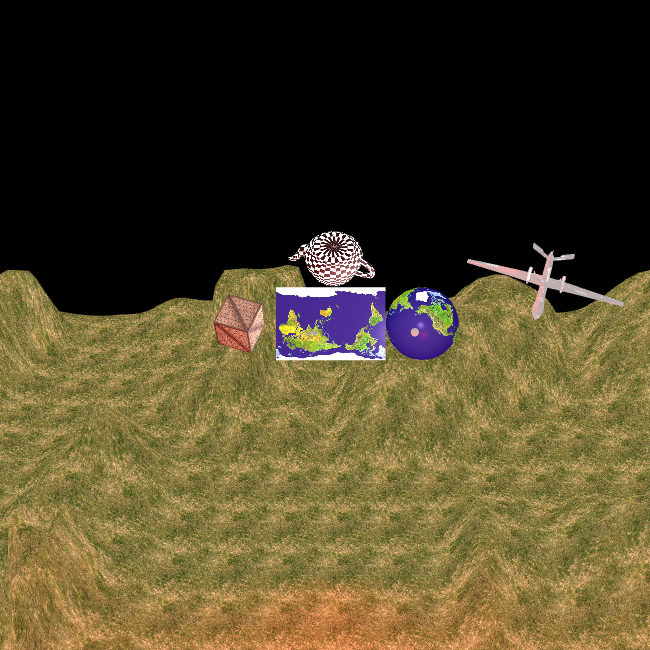
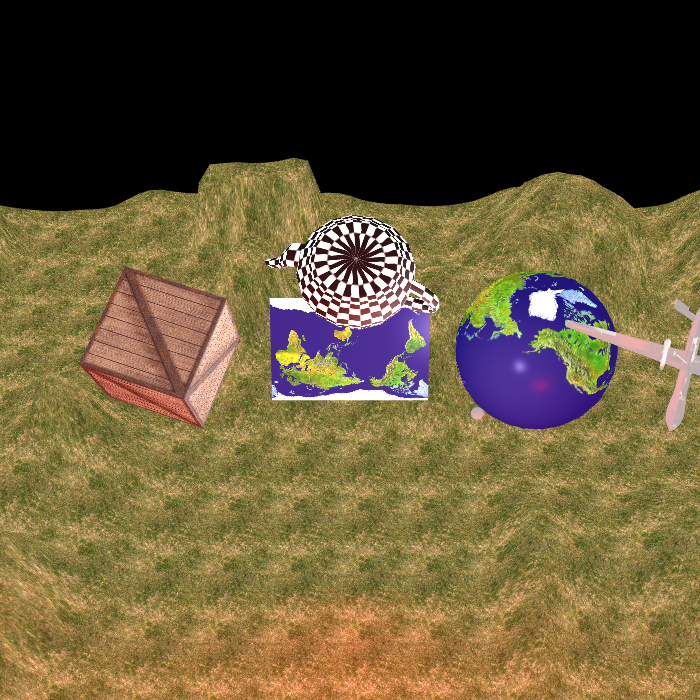
'修改示例代码'

diff --git a/examples/main.js b/examples/main.js
@@ -15,18 +15,18 @@ function Main(){
         //new MyGL.AssetData('cube_mat_vshader', MyGL.AssetData.TEXT, './src/shaders/cube_material/base/vert.glsl'),
         //new MyGL.AssetData('cube_mat_fshader', MyGL.AssetData.TEXT, './src/shaders/cube_material/base/frag.glsl'),
         /*new AssetData('sky_n_x', AssetData.IMAGE, './resource/sky_n_x.jpg'),
-         new AssetData('sky_n_y', AssetData.IMAGE, './resource/sky_n_y.jpg'),
-         new AssetData('sky_n_z', AssetData.IMAGE, './resource/sky_n_z.jpg'),
-         new AssetData('sky_p_x', AssetData.IMAGE, './resource/sky_p_x.jpg'),
-         new AssetData('sky_p_y', AssetData.IMAGE, './resource/sky_p_y.jpg'),
-         new AssetData('sky_p_z', AssetData.IMAGE, './resource/sky_p_z.jpg'),*/
+        new AssetData('sky_n_y', AssetData.IMAGE, './resource/sky_n_y.jpg'),
+        new AssetData('sky_n_z', AssetData.IMAGE, './resource/sky_n_z.jpg'),
+        new AssetData('sky_p_x', AssetData.IMAGE, './resource/sky_p_x.jpg'),
+        new AssetData('sky_p_y', AssetData.IMAGE, './resource/sky_p_y.jpg'),
+        new AssetData('sky_p_z', AssetData.IMAGE, './resource/sky_p_z.jpg'),*/
 
-         new MyGL.AssetData('cloudy_noon_nx', MyGL.AssetData.IMAGE, './resource/cloudy_noon_nx.jpg'),
-         new MyGL.AssetData('cloudy_noon_ny', MyGL.AssetData.IMAGE, './resource/cloudy_noon_ny.jpg'),
-         new MyGL.AssetData('cloudy_noon_nz', MyGL.AssetData.IMAGE, './resource/cloudy_noon_nz.jpg'),
-         new MyGL.AssetData('cloudy_noon_px', MyGL.AssetData.IMAGE, './resource/cloudy_noon_px.jpg'),
-         new MyGL.AssetData('cloudy_noon_py', MyGL.AssetData.IMAGE, './resource/cloudy_noon_py.jpg'),
-         new MyGL.AssetData('cloudy_noon_pz', MyGL.AssetData.IMAGE, './resource/cloudy_noon_pz.jpg'),
+        new MyGL.AssetData('cloudy_noon_nx', MyGL.AssetData.IMAGE, './resource/cloudy_noon_nx.jpg'),
+        new MyGL.AssetData('cloudy_noon_ny', MyGL.AssetData.IMAGE, './resource/cloudy_noon_ny.jpg'),
+        new MyGL.AssetData('cloudy_noon_nz', MyGL.AssetData.IMAGE, './resource/cloudy_noon_nz.jpg'),
+        new MyGL.AssetData('cloudy_noon_px', MyGL.AssetData.IMAGE, './resource/cloudy_noon_px.jpg'),
+        new MyGL.AssetData('cloudy_noon_py', MyGL.AssetData.IMAGE, './resource/cloudy_noon_py.jpg'),
+        new MyGL.AssetData('cloudy_noon_pz', MyGL.AssetData.IMAGE, './resource/cloudy_noon_pz.jpg'),
 
         new MyGL.AssetData('land', MyGL.AssetData.IMAGE, './resource/land.png'),
         new MyGL.AssetData('grass', MyGL.AssetData.IMAGE, './resource/grass.png'),
@@ -38,10 +38,6 @@ function Main(){
     MyGL.AssetsManager.getInstance().load();
 }
 
-Main.prototype.start = function(){
-
-};
-
 Main.prototype.loadComplete = function(event){
     console.log(event);
     this.engine = new MyGL.Engine(true);
@@ -51,8 +47,9 @@ Main.prototype.loadComplete = function(event){
     //this.scene.ambientColor = new Vector3(0, 0,0);
     //this.scene.initialize();
 
+    //透视摄影机
     this.camera = new MyGL.PerspectiveCamera();
-    this.camera.position = new MyGL.Vector3(0.0, 25, 35.0);
+    this.camera.position = new MyGL.Vector3(0.0, 25, 20.0);
     this.scene.currentCamera = this.camera;
     this.camera.lookAt(new MyGL.Vector3(0.0, 0.0, 0.0), MyGL.Vector3.UP);
     MyGL.MouseCameraHelper.attach(this.camera);
@@ -60,8 +57,9 @@ Main.prototype.loadComplete = function(event){
     var cubeMat = new MyGL.StandardMaterial();
     cubeMat.texture = new MyGL.Texture2D(MyGL.AssetsManager.getInstance().getAsset('img_crate'), true);
 
-    this.cube = new MyGL.Mesh(new MyGL.Cube(2.0, 2, 2), cubeMat);
-    this.cube.position = new MyGL.Vector3(-5, 0.0, 0.0);
+    //立方体
+    this.cube = new MyGL.Mesh(new MyGL.Cube(4, 4, 4), cubeMat);
+    this.cube.position = new MyGL.Vector3(-7, 0.0, 0.0);
     this.scene.addMesh(this.cube);
 
     var colorMaterial = new MyGL.StandardMaterial();
@@ -71,22 +69,26 @@ Main.prototype.loadComplete = function(event){
     colorMaterial.shininess = 50;
     colorMaterial.texture = new MyGL.Texture2D(MyGL.AssetsManager.getInstance().getAsset('img_earth'), true);
 
-    this.sphere = new MyGL.Mesh(new MyGL.Sphere(2, 16, 12),colorMaterial);
-    this.sphere.position = new MyGL.Vector3(5, 0.0, 0.0);
+    //地球
+    this.sphere = new MyGL.Mesh(new MyGL.Sphere(3, 24, 24),colorMaterial);
+    this.sphere.position = new MyGL.Vector3(7, 0.0, 0.0);
     //this.cube.addChild(this.cube2);
     this.scene.addMesh(this.sphere);
 
+    //平面
     this.plane = new MyGL.Mesh(new MyGL.Plane(6, 4),colorMaterial);
     this.plane.position = new MyGL.Vector3(0, 0, 0);
     this.plane.rotation.x = 0.6;
     this.scene.addMesh(this.plane);
     this.plane.surfaceSide = MyGL.Mesh.SURFACE_SIDE_DOUBLE;
 
+    //平行光源
     this.directionLight = new MyGL.DirectionLight();
     this.directionLight.color = new MyGL.Vector3(0.4, 0.0, 0.0);
     this.directionLight.position = new MyGL.Vector3(0, 0, 1);
     this.scene.addLight(this.directionLight);
 
+    //点光源
     this.pointLight = new MyGL.PointLight();
     this.scene.addLight(this.pointLight);
     this.pointLight.color = new MyGL.Vector3(0.6, 0.6, 0.6);
@@ -102,15 +104,17 @@ Main.prototype.loadComplete = function(event){
     this.pointSphere.position.z = 5;
     this.scene.addMesh(this.pointSphere);
 
+    //茶壶
     var teapot = new MyGL.Teapot();
     var sm = new MyGL.StandardMaterial();
     sm.emissiveColor = new MyGL.Vector3(0.2, 0.2, 0.0);
     sm.texture = new MyGL.Texture2D();
     this.teapot = new MyGL.Mesh(teapot, sm);
     this.teapot.position.y = 4;
-    this.teapot.scale = new MyGL.Vector3(0.15, 0.15, 0.15);
+    this.teapot.scale = new MyGL.Vector3(0.2, 0.2, 0.2);
     this.scene.addMesh(this.teapot);
 
+    //立方体盒子
     var cubeMate = new MyGL.CubeMapMaterial();
     var cubeTexture = new MyGL.TextureCube([
         MyGL.AssetsManager.getInstance().getAsset('cloudy_noon_px'),
@@ -135,6 +139,7 @@ Main.prototype.loadComplete = function(event){
     var droneMat = new MyGL.StandardMaterial();
     droneMat.emissiveColor = new MyGL.Vector3(0.6, 0.6, 0.6);
     //droneMat.texture = new Texture2D(AssetsManager.getInstance().getAsset('drone_diffuse'));
+    //加载Obj格式无人机模型
     var objparser = new MyGL.ObjParser(MyGL.AssetsManager.getInstance().getAsset('drone'));
     this.drone = new MyGL.Mesh(new MyGL.ObjGeometry(objparser), droneMat);
     this.drone.position = new MyGL.Vector3(-10, 8, 3);

diff --git a/src/core/Scene3D.ts b/src/core/Scene3D.ts
@@ -3,8 +3,6 @@ import Camera from "../cameras/Camera";
 import RenderContext from "../RenderContext";
 import Vector3 from "../math/Vector3";
 import Mesh from "./Mesh";
-import PointLight from "../lights/PointLight";
-import DirectionLight from "../lights/DirectionLight";
 /**
  * Created by yaozh on 2017/6/6.
  */

diff --git a/src/MyGL.ts b/src/MyGL.ts
@@ -1,3 +1,4 @@
+/// <reference path="../typings/index.d.ts" />
 /**
  * Created by yaozh on 2017/12/18.
  */

diff --git a/README.md b/README.md
@@ -18,7 +18,190 @@ npm install
 gulp
 
 #case screenshot
-下图演示了场景中模型变换，平行光和点光源,高度地形图，Obj文件解析，在线浏览：
-<http://works.yaozhiguo.site/mygl/>
+下图演示了场景中模型变换，平行光和点光源,高度地形图，Obj文件解析等特性
 
 ![快照](https://github.com/yaozhiguo2016/MyGL-JS/blob/master/screenshot.png)
+
+#example
+
+<pre><code>
+function Main(){
+
+    MyGL.AssetsManager.getInstance().addGroup([
+        //new MyGL.AssetData('standard_mat_bp_vshader', MyGL.AssetData.TEXT, './src/shaders/standard_material/phong-f/vert.glsl'),
+        //new MyGL.AssetData('standard_mat_bp_fshader', MyGL.AssetData.TEXT, './src/shaders/standard_material/phong-f/frag.glsl'),
+        //new MyGL.AssetData('standard_mat_bp_vshader_nt', MyGL.AssetData.TEXT, './src/shaders/standard_material/phong-f/vert_no_texture.glsl'),
+        //new MyGL.AssetData('standard_mat_bp_fshader_nt', MyGL.AssetData.TEXT, './src/shaders/standard_material/phong-f/frag_no_texture.glsl'),
+        new MyGL.AssetData('img_earth', MyGL.AssetData.IMAGE, './resource/earth.bmp'),
+        new MyGL.AssetData('img_earth01', MyGL.AssetData.IMAGE, './resource/earth01.jpg'),
+        new MyGL.AssetData('img_crate', MyGL.AssetData.IMAGE, './resource/crate.gif'),
+
+        //new MyGL.AssetData('cube_mat_vshader', MyGL.AssetData.TEXT, './src/shaders/cube_material/base/vert.glsl'),
+        //new MyGL.AssetData('cube_mat_fshader', MyGL.AssetData.TEXT, './src/shaders/cube_material/base/frag.glsl'),
+        /*new AssetData('sky_n_x', AssetData.IMAGE, './resource/sky_n_x.jpg'),
+        new AssetData('sky_n_y', AssetData.IMAGE, './resource/sky_n_y.jpg'),
+        new AssetData('sky_n_z', AssetData.IMAGE, './resource/sky_n_z.jpg'),
+        new AssetData('sky_p_x', AssetData.IMAGE, './resource/sky_p_x.jpg'),
+        new AssetData('sky_p_y', AssetData.IMAGE, './resource/sky_p_y.jpg'),
+        new AssetData('sky_p_z', AssetData.IMAGE, './resource/sky_p_z.jpg'),*/
+
+        new MyGL.AssetData('cloudy_noon_nx', MyGL.AssetData.IMAGE, './resource/cloudy_noon_nx.jpg'),
+        new MyGL.AssetData('cloudy_noon_ny', MyGL.AssetData.IMAGE, './resource/cloudy_noon_ny.jpg'),
+        new MyGL.AssetData('cloudy_noon_nz', MyGL.AssetData.IMAGE, './resource/cloudy_noon_nz.jpg'),
+        new MyGL.AssetData('cloudy_noon_px', MyGL.AssetData.IMAGE, './resource/cloudy_noon_px.jpg'),
+        new MyGL.AssetData('cloudy_noon_py', MyGL.AssetData.IMAGE, './resource/cloudy_noon_py.jpg'),
+        new MyGL.AssetData('cloudy_noon_pz', MyGL.AssetData.IMAGE, './resource/cloudy_noon_pz.jpg'),
+
+        new MyGL.AssetData('land', MyGL.AssetData.IMAGE, './resource/land.png'),
+        new MyGL.AssetData('grass', MyGL.AssetData.IMAGE, './resource/grass.png'),
+
+        new MyGL.AssetData('drone', MyGL.AssetData.TEXT, './resource/drone.obj')
+        //new AssetData('drone_diffuse', AssetData.IMAGE, './resource/drone_diffuse_01.png')
+    ]);
+    MyGL.AssetsManager.getInstance().addEventListener(MyGL.AssetsManager.GROUP_LOAD_COMPLETE, this.loadComplete, this);
+    MyGL.AssetsManager.getInstance().load();
+}
+
+Main.prototype.loadComplete = function(event){
+    console.log(event);
+    this.engine = new MyGL.Engine(true);
+    this.engine.setRenderLoop(this.loop, this);
+
+    this.scene = new MyGL.Scene3D();
+    //this.scene.ambientColor = new Vector3(0, 0,0);
+    //this.scene.initialize();
+
+    //透视摄影机
+    this.camera = new MyGL.PerspectiveCamera();
+    this.camera.position = new MyGL.Vector3(0.0, 25, 20.0);
+    this.scene.currentCamera = this.camera;
+    this.camera.lookAt(new MyGL.Vector3(0.0, 0.0, 0.0), MyGL.Vector3.UP);
+    MyGL.MouseCameraHelper.attach(this.camera);
+
+    var cubeMat = new MyGL.StandardMaterial();
+    cubeMat.texture = new MyGL.Texture2D(MyGL.AssetsManager.getInstance().getAsset('img_crate'), true);
+
+    //立方体
+    this.cube = new MyGL.Mesh(new MyGL.Cube(4, 4, 4), cubeMat);
+    this.cube.position = new MyGL.Vector3(-7, 0.0, 0.0);
+    this.scene.addMesh(this.cube);
+
+    var colorMaterial = new MyGL.StandardMaterial();
+    colorMaterial.emissiveColor = new MyGL.Vector3(0.2, 0.2, 0.2);
+    colorMaterial.diffuseColor = new MyGL.Vector3(0.2, 0.2, 0.2);
+    colorMaterial.specularColor = new MyGL.Vector3(0.5, 0.5, 0.5);
+    colorMaterial.shininess = 50;
+    colorMaterial.texture = new MyGL.Texture2D(MyGL.AssetsManager.getInstance().getAsset('img_earth'), true);
+
+    //地球
+    this.sphere = new MyGL.Mesh(new MyGL.Sphere(3, 24, 24),colorMaterial);
+    this.sphere.position = new MyGL.Vector3(7, 0.0, 0.0);
+    //this.cube.addChild(this.cube2);
+    this.scene.addMesh(this.sphere);
+
+    //平面
+    this.plane = new MyGL.Mesh(new MyGL.Plane(6, 4),colorMaterial);
+    this.plane.position = new MyGL.Vector3(0, 0, 0);
+    this.plane.rotation.x = 0.6;
+    this.scene.addMesh(this.plane);
+    this.plane.surfaceSide = MyGL.Mesh.SURFACE_SIDE_DOUBLE;
+
+    //平行光源
+    this.directionLight = new MyGL.DirectionLight();
+    this.directionLight.color = new MyGL.Vector3(0.4, 0.0, 0.0);
+    this.directionLight.position = new MyGL.Vector3(0, 0, 1);
+    this.scene.addLight(this.directionLight);
+
+    //点光源
+    this.pointLight = new MyGL.PointLight();
+    this.scene.addLight(this.pointLight);
+    this.pointLight.color = new MyGL.Vector3(0.6, 0.6, 0.6);
+    this.pointLight.intensity = new MyGL.Vector3(1.0, 1.0, 1.0);
+    this.pointLight.position.x = 5;
+    this.pointLight.position.z = 5;
+
+    var sm2 = new MyGL.StandardMaterial();
+    sm2.emissiveColor = new MyGL.Vector3(0.6, 0.6, 0.6);
+    //sm2.texture = new Texture2D();
+    this.pointSphere = new MyGL.Mesh(new MyGL.Sphere(0.2, 16, 12), sm2);
+    this.pointSphere.position.x = 5;
+    this.pointSphere.position.z = 5;
+    this.scene.addMesh(this.pointSphere);
+
+    //茶壶
+    var teapot = new MyGL.Teapot();
+    var sm = new MyGL.StandardMaterial();
+    sm.emissiveColor = new MyGL.Vector3(0.2, 0.2, 0.0);
+    sm.texture = new MyGL.Texture2D();
+    this.teapot = new MyGL.Mesh(teapot, sm);
+    this.teapot.position.y = 4;
+    this.teapot.scale = new MyGL.Vector3(0.2, 0.2, 0.2);
+    this.scene.addMesh(this.teapot);
+
+    //立方体盒子
+    var cubeMate = new MyGL.CubeMapMaterial();
+    var cubeTexture = new MyGL.TextureCube([
+        MyGL.AssetsManager.getInstance().getAsset('cloudy_noon_px'),
+        MyGL.AssetsManager.getInstance().getAsset('cloudy_noon_nx'),
+        MyGL.AssetsManager.getInstance().getAsset('cloudy_noon_py'),
+        MyGL.AssetsManager.getInstance().getAsset('cloudy_noon_ny'),
+        MyGL.AssetsManager.getInstance().getAsset('cloudy_noon_pz'),
+        MyGL.AssetsManager.getInstance().getAsset('cloudy_noon_nz')
+    ]);
+    cubeMate.textureCube = cubeTexture;
+    var skyBox = new MyGL.SkyBox(80, cubeMate);
+    skyBox.position = this.camera.position;
+    //this.scene.addMesh(skyBox);
+
+    var img = MyGL.AssetsManager.getInstance().getAsset('land');
+    var terrainMat = new MyGL.StandardMaterial();
+    terrainMat.texture = new MyGL.Texture2D(MyGL.AssetsManager.getInstance().getAsset('grass'));
+    this.terrain = new MyGL.Mesh(new MyGL.ColorHeightMap(img), terrainMat);
+    this.terrain.position = new MyGL.Vector3(0, -20, 0);
+    this.scene.addMesh(this.terrain);
+
+    var droneMat = new MyGL.StandardMaterial();
+    droneMat.emissiveColor = new MyGL.Vector3(0.6, 0.6, 0.6);
+    //droneMat.texture = new Texture2D(AssetsManager.getInstance().getAsset('drone_diffuse'));
+    //加载Obj格式无人机模型
+    var objparser = new MyGL.ObjParser(MyGL.AssetsManager.getInstance().getAsset('drone'));
+    this.drone = new MyGL.Mesh(new MyGL.ObjGeometry(objparser), droneMat);
+    this.drone.position = new MyGL.Vector3(-10, 8, 3);
+    this.drone.rotation.x = 90;
+    this.drone.scale = new MyGL.Vector3(0.005, 0.005,0.005);
+    this.scene.addMesh(this.drone);
+
+    this.engine.setScene(this.scene);
+    this.engine.start();
+};
+
+Main.prototype.loop = function () {
+    //this.cube.position.z -= 0.05;
+    this.cube.rotation.x +=0.01;
+    this.cube.rotation.y +=0.01;
+
+    //this.sphere.translate(this.dis, Vector3.UP);
+    this.sphere.rotation.y +=0.01;
+    this.plane.rotation.x += 0.01;
+
+    this.teapot.rotation.x += 0.01;
+    this.teapot.rotation.y += 0.01;
+
+    //this.camera.rotation.x += 0.02;
+    // this.camera.rotation.y += 0.02;
+
+    this.pointLight.translate(0.1, MyGL.Vector3.UP);
+    this.pointLight.rotation.z += 0.02;
+
+    this.pointSphere.translate(0.1, MyGL.Vector3.UP);
+    this.pointSphere.rotation.z += 0.02;
+
+
+    this.drone.translate(-0.1, MyGL.Vector3.UP);
+    this.drone.rotation.z += 0.01;
+
+    this.scene.draw();
+};
+
+new Main();
+</code></pre>
